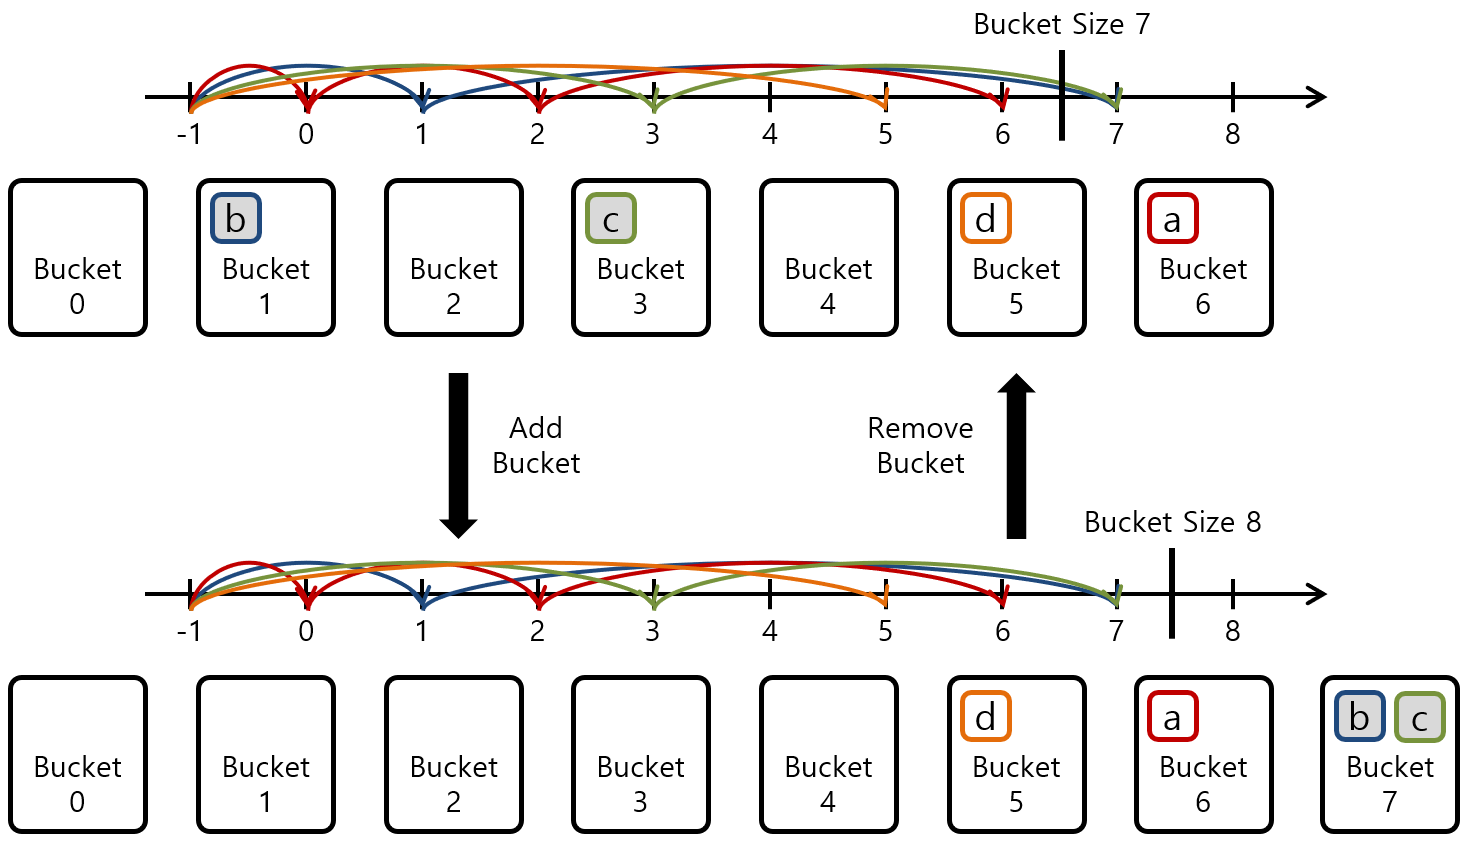
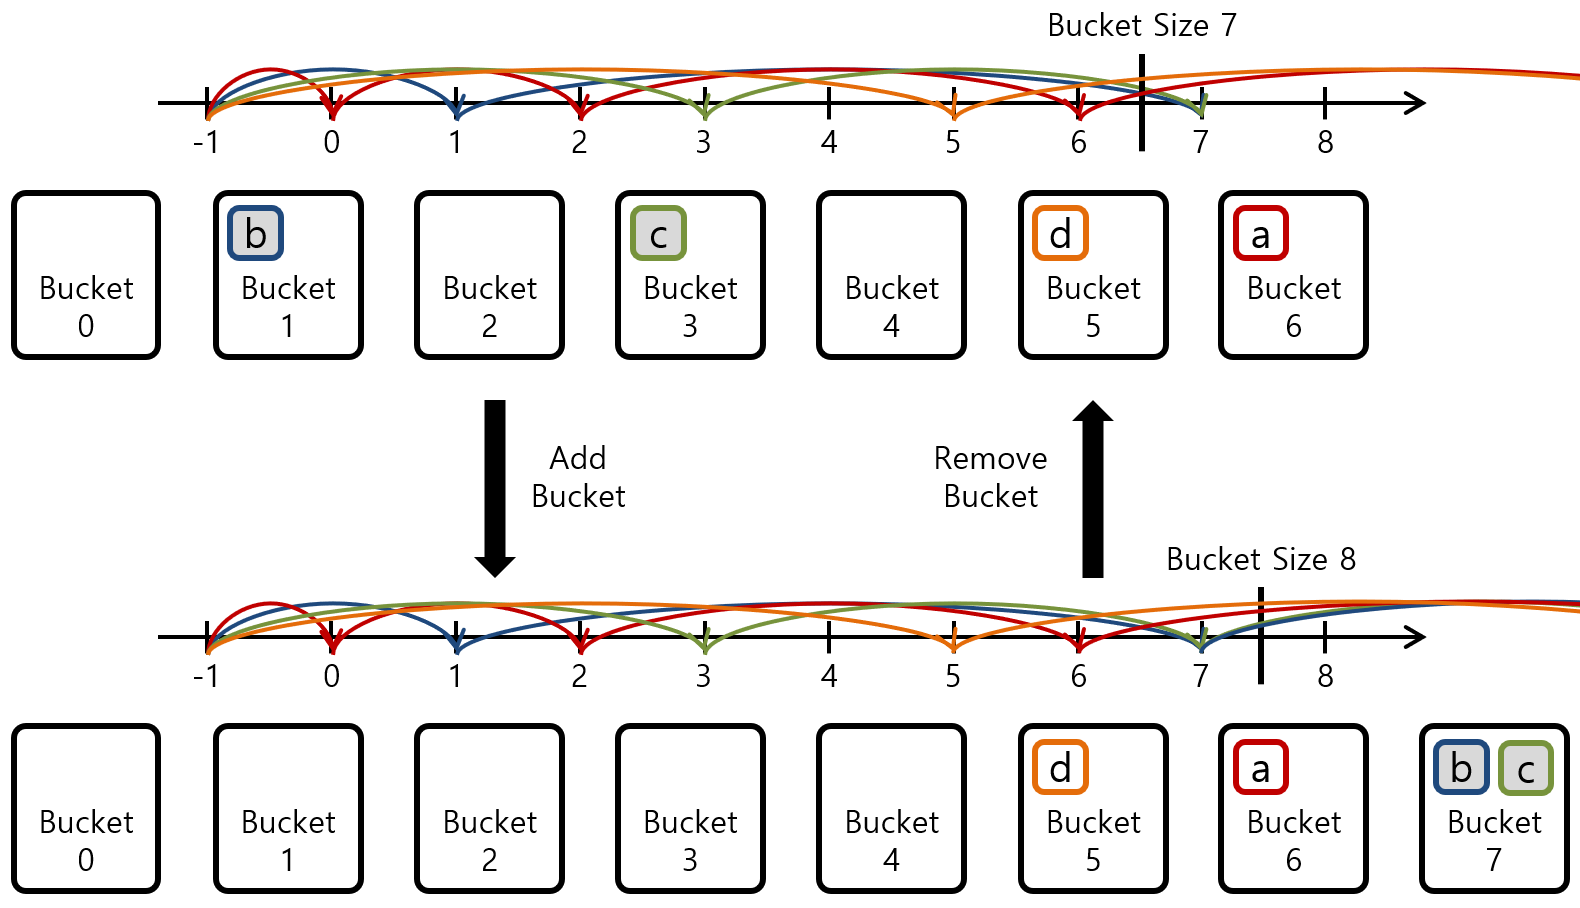
Update

diff --git a/_docs/theory_analysis/Consistent_Hashing.md b/_docs/theory_analysis/Consistent_Hashing.md
@@ -15,20 +15,36 @@ Consistent Hashing을 분석한다.
 
 Consistent Hashing은 Hashing Algorithm 중 하나이다. **분배 Algorithm**으로 Hashing을 이용할 경우 일반적으로 Consistent Hashing을 많이 이용한다. [그림 1]은 일반적으로 가장 많이 이용되는 Modular Hashing과 Consistent Hashing을 비교하고 있다. Modular Hashing의 경우 Bucket의 개수가 변경될 경우 Rebalancing 과정을 통해서 Bucket의 소속된 대부분의 Key도 같이 이동하게 된다. 이러한 많은 Key의 이동은 성능 저하의 원인이 된다.
 
-예를들어 Modular Hashing을 기반으로 다수의 Disk 사이에서 Data를 Sharding해서 저장했다고 한다면, Disk가 추가/제거 될때마다 많은 Data의 이동이 발생하게 된다. 이러한 문제 해결을 위해서 Bucket을 추가/제거시 Key의 이동을 최소화 하기 위해서 만들어진 Hashing Algorithm이 Consistent Hashing이다. Consistent Hashing은 Bucket 추가/제거시 평균적으로 **(전체 Key의 개수)/Bucket** 개수의 Key가 이동한다.
+예를들어 Modular Hashing을 기반으로 다수의 Disk 사이에서 Data를 Sharding해서 저장했다고 한다면, Disk가 추가/제거 될때마다 많은 Data의 이동이 발생하게 된다. 이러한 문제 해결을 위해서 Bucket을 추가/제거시 Key의 이동을 최소화 하기 위해서 만들어진 Hashing Algorithm이 Consistent Hashing이다. Consistent Hashing은 Bucket 추가/제거시 평균적으로 **(전체 Key의 개수)/(전체 Bucket의 개수)** 개수의 Key가 이동한다.
 
 #### 1.1. Ring Consistent Hashing
 
 ![[그림 2] Ring Consistent Hashing]({{site.baseurl}}/images/theory_analysis/Consistent_Hashing/Ring_Consistent_Hashing.PNG){: width="700px"}
 
+Ring Consistent Hashing은 Consistent Hashing이라는 용어를 처음으로 도입한 Hashing Algorithm이다. [그림 2]는 Ring Consistent Hashing을 나타내고 있다. Ring Consistent Hashing은 **Hash Ring**이라고 불리는 Hashing의 결과값으로 구성된 Ring을 이용한다. 여기서 Hashing은 Modular Hashing으로 이해해도 된다. [그림 2]에서 Hash Ring은 0 ~ 15의 값을 갖고 있다. 그리고 Hash Ring의 사이에 가상의 Bucket을 의미하는 **vBucket (vNode)**이 위치하게 된다.
+
+Ring Consistent Hashing은 Hash Ring에서 시계방향으로 이동할 경우 가장 먼저 만나는 vBucket에 Key를 할당한다. [그림 2]에서 Bucket 크기가 3일 경우 'a' 문자의 Hashing 결과는 '1' 이라고 가정했을때 '1'은 '1'에서 시계방향으로 이동할 경우 2번 Bucket의 vBucket을 가장 먼저 만나기 때문에, 'a'문자는 2번 Bucket에 할당된다.
+
+Bucket이 추가/제거될 경우 Hash Ring에 존재하는 vBucket도 같이 추가/제거된다. 이 경우 대부분의 문자는 옮겨지지 않고 그대로 Bucket에 위치하고 있는것을 확인할 수 있다. [그림 2]에서 Bucket 크기가 3에서 4로 증가하는 경우, '1' ~ '2' 사이에 Bucket 3의 vBucket이 추가되었기 때문에 'a' 문자는 3번 Bucket 3으로 이동한다. 반면에 'e' 문자는 그대로 2번 Bucket에 머무르게 된다.
+
+Bucket하나에 다수의 vBucket이 Mapping되는데, vBucket이 필요한 이유는 각 Bucket에 Key를 골고루 분배하기 위해서이다. 만약 [그림 2]의 Hash Ring에 Bucket만 3~4개 존재한다고 생각한다면 문자가 특정 Bucket에만 몰릴수 있다는 사실을 알 수 있다. 일반적으로 vBucket은 Bucket 하나당 1000개 이상을 생성한다. 각 Bucket마다 Bucket과 vBucket의 비율을 조절하여 각 Bucket이 **서로 다른 비율 (Weight)**로 Key를 갖도록 만들 수 있다.
+
 #### 1.2. Jump Consistent Hashing
 
 ![[그림 3] Jump Consistent Hashing]({{site.baseurl}}/images/theory_analysis/Consistent_Hashing/Jump_Consistent_Hashing.PNG){: width="700px"}
 
+Jump Consistent Hashing은 Ring Consistent Hashing이 vBucket 할당을 위해서 이용하는 **Memory 공간을 줄이기 위해서** 탄생한 Hashing Algorithm이다. [그림 3]은 Jump Consistent Hashing을 나타내고 있다. Jump Consistent Hashing에서 Key는 '-1' 부터 시작하여 Random한 거리만큼 계속 Jump한다. Jump를 하다가 Bucket 크기를 넘으면 **Bucket 크기를 넘기 이전의 위치**가 Key의 Bucket이 된다.
+
+[그림 3]에서 Bucket 크기가 7인경우 'c' 문자는 3번 위치에서 Jump하여 한번에 7번 위치까지 이동한다. Bucket의 크기가 7이기 7번 위치는 Bucket 크기를 넘는 위치이다. 따라서 'c' 문자열은 3번 Bucket에 위치한다. Bucket 크기가 8로 증가할 경우 7번 위치는 Bucket 크기에 포함된다. 이후 다음 점프는 Bucket 크기를 넘기 때문에 문자 'c'는 7번 Bucket에 포함된다.
+
+각 Key가 Jump 거리하는 Random이며 Random의 Seed로 Key가 이용된다. 즉 각 Key마다 서로 다른 거리로 Jump를 수행하지만 Bucket의 크기에 따라서 Jump 거리가 변하지는 않는다는 의미다. [그림 3]에서도 Bucket 크기가 변경되어도 각 문자 (Key)마다 Jump 거리는 동일한 것을 확인할 수 있다. Bucket이 추가/제거 될때 Bucket 크기를 넘는 Jump만 영향을 받기 때문에 관련 Bucket의 Key만 이동하는 것을 확인할 수 있다.
+
+Jump Consistent Hashing은 각 Key의 모든 Jump 과정을 저장할 필요 없이, Bucket 크기를 넘기 기전의 위치만 기억하면 되기 때문에 Ring Consistent Hashing과 같이 vBucket의 개념이 필요 없으며, Ring Consistent Hashing에 비해서 적은 Memory 공간을 이용한다. 단 Ring Consistent Hashing와 같이 각 Bucket이 서로 다른 비율로 Key를 갖도록 만들수는 없다. 시간 복잡도는 **ln(n)**이다.
+
 ### 2. 참조
 
-* [https://dl.acm.org/doi/abs/10.1145/258533.258660](https://dl.acm.org/doi/abs/10.1145/258533.258660)
-* [https://arxiv.org/ftp/arxiv/papers/1406/1406.2294.pdf](https://arxiv.org/ftp/arxiv/papers/1406/1406.2294.pdf)
+* Ring Consistent Hashing : [https://dl.acm.org/doi/abs/10.1145/258533.258660](https://dl.acm.org/doi/abs/10.1145/258533.258660)
+* Jump Consistent Hashing : [https://arxiv.org/ftp/arxiv/papers/1406/1406.2294.pdf](https://arxiv.org/ftp/arxiv/papers/1406/1406.2294.pdf)
 * [https://www.joinc.co.kr/w/man/12/hash/consistent](https://www.joinc.co.kr/w/man/12/hash/consistent)
 * [https://itnext.io/introducing-consistent-hashing-9a289769052e](https://itnext.io/introducing-consistent-hashing-9a289769052e)
 * [https://www.popit.kr/consistent-hashing/](https://www.popit.kr/consistent-hashing/)
